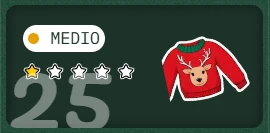
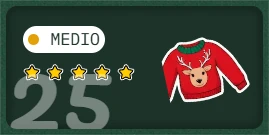
Actualizo README 2024

diff --git a/2024/README.md b/2024/README.md
@@ -67,5 +67,5 @@ Realizo los retos de **[Adventjs](https://adventjs.dev/)** (Juego con retos de p
 | 22  | <img src="img/22.webp"> [🎁 Genera combinaciones de regalos](22/index.js)              | Medio      | ✅     | :star::star::star::star::star: |
 | 23  | <img src="img/23.webp"> [🔢 Encuentra los números perdidos](23/index.js)               | Fácil      | ✅     | :star::star::star::star::star: |
 | 24  | <img src="img/24.webp"> [🪞 Verifica si los árboles son espejos mágicos](24/index.js)  | Medio      | ✅     | :star::star::star::star::star: |
-| 25  | <img src="img/25.webp"> [🪞 Ejecuta el lenguaje mágico](25/index.js)                   | Medio      | ✅     | :star:                         |
+| 25  | <img src="img/25.webp"> [🪞 Ejecuta el lenguaje mágico](25/index.js)                   | Medio      | ✅     | :star::star::star::star::star: |
 | 26  | <img src="img/26.webp"> [🎯 Calcula el porcentaje completado](26/index.js)             | Fácil      | ✅     | :star::star::star::star::star: |
